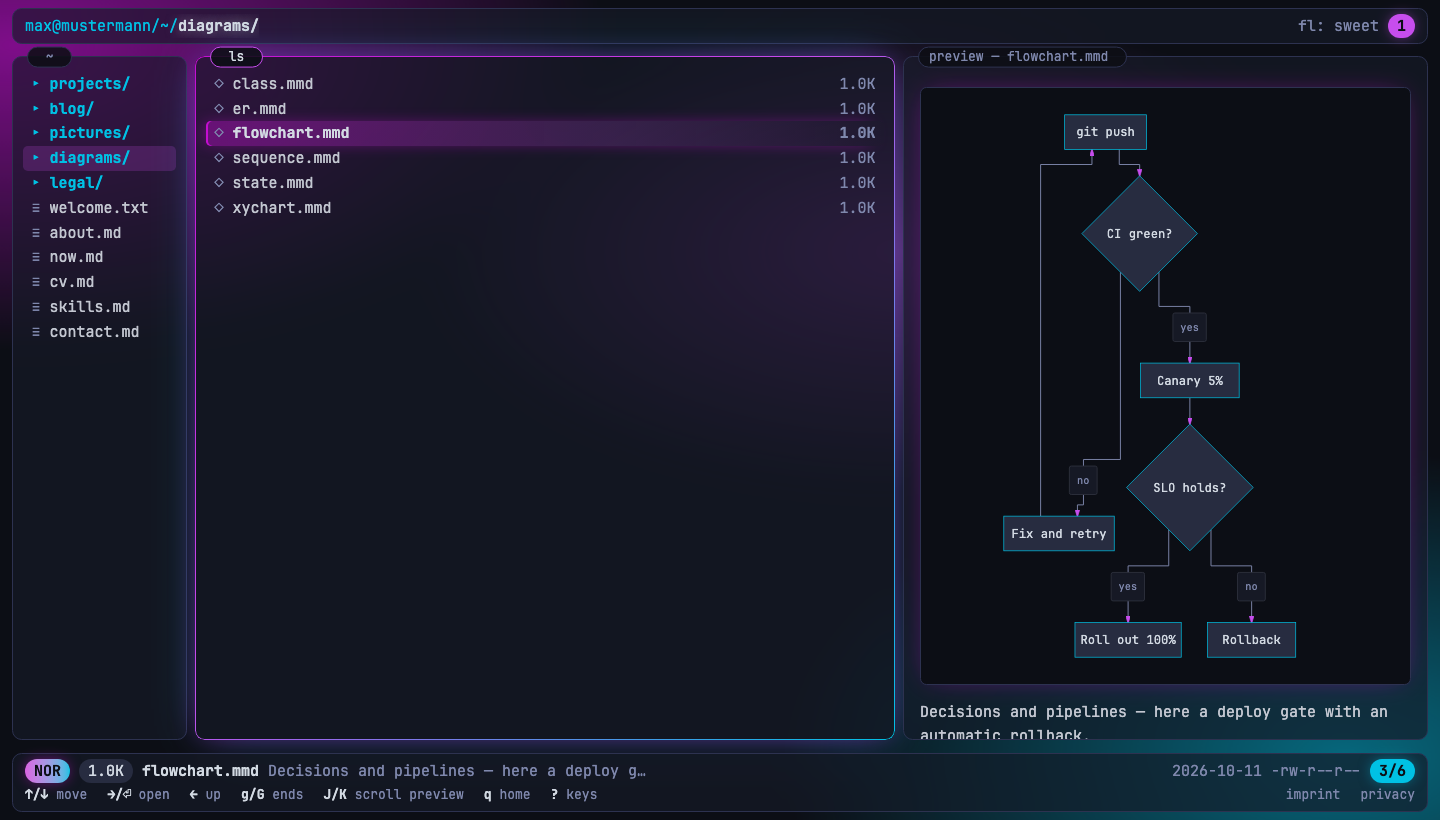
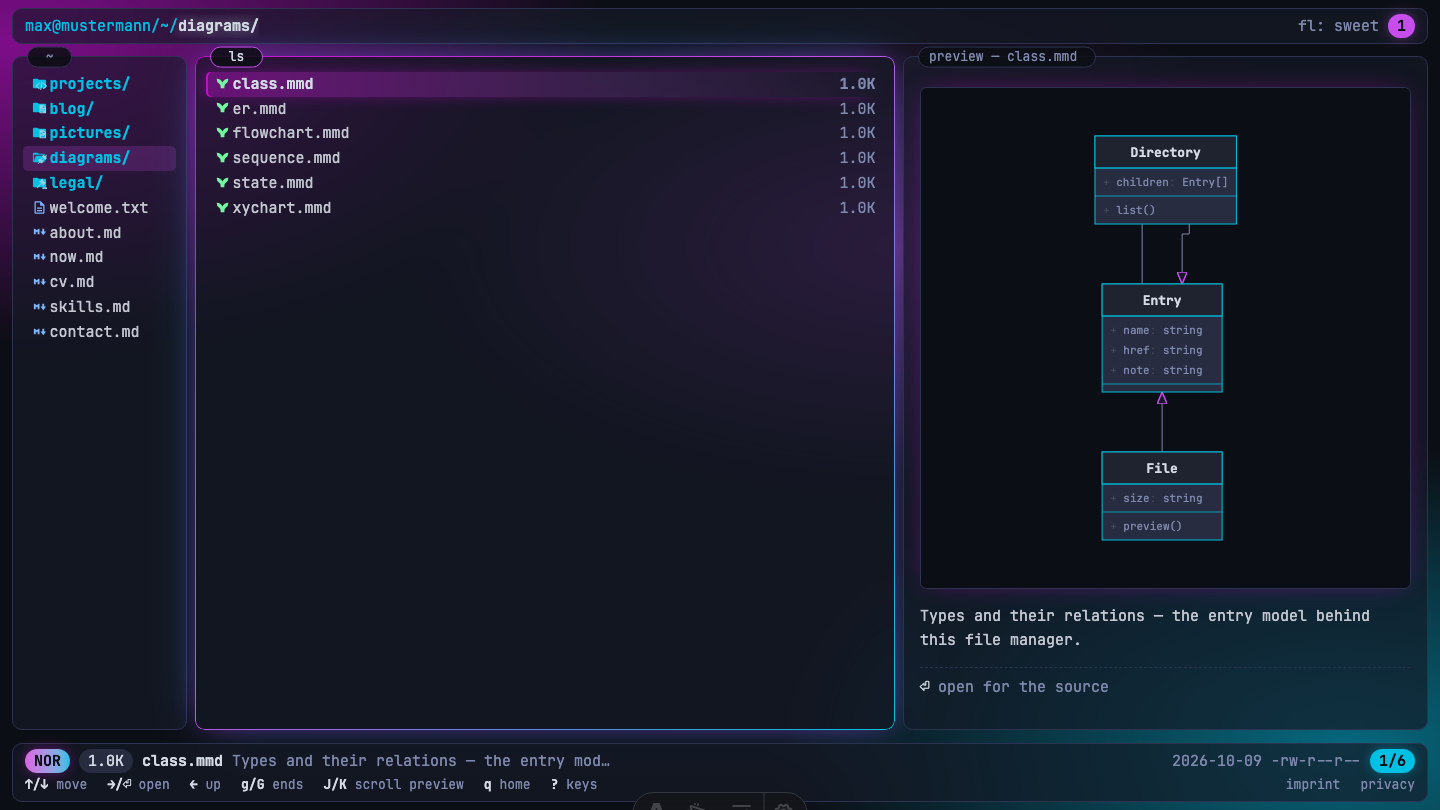
docs: update readme features, screenshots and project notes

diff --git a/CLAUDE.md b/CLAUDE.md
@@ -1,115 +1,128 @@
 # CLAUDE.md
 
-This file provides guidance to Claude Code (claude.ai/code) when working with code in this repository.
+This file provides guidance to Claude Code (claude.ai/code) when working in this repository.
 
-## Projekt
+## Project
 
-Portfolio-Website, die aussieht und sich bedient wie der Terminal-Dateimanager
-[Yazi](https://github.com/sxyazi/yazi). Statische Astro-5-Seite, Code-Kommentare und Doku auf
-Deutsch, Seiteninhalte auf Englisch. **Aktueller Inhalt sind Musterdaten (Max Mustermann)** —
-beim echten Go-live gegen echte Inhalte austauschen: `src/lib/tree.ts` (Root-Baum) und
-`src/content/` (Projekte/Blog).
+Portfolio website that looks and behaves like the terminal file manager
+[Yazi](https://github.com/sxyazi/yazi). A static Astro 5 site; code comments and docs are in
+English, page content is in English as well. **Current content is sample data (Max Mustermann)** —
+before the real go-live, replace it with real content in `src/lib/tree.ts` (root tree) and
+`src/content/` (projects/blog).
 
-Stand: vollständiger Erstbuild (2026-10-11). TUI-Shell, Keyboard-Navigation, Content Collections
-und alle Seiten sind implementiert; das Zielbild aus `docs/PROJEKTBRIEF.md` ist im Wesentlichen
-umgesetzt. Entscheide der offenen Fragen sind dort unter „Historie" festgehalten.
+State: complete initial build (2026-10-11). TUI shell, keyboard navigation, content collections,
+and all pages are implemented; the target vision in `docs/PROJEKTBRIEF.md` is essentially done.
+Decisions on open questions are recorded there under "Historie".
 
-## Befehle
+## Commands
 
 ```bash
 npm install
-npm run dev      # Dev-Server auf http://localhost:4321
-npm run build    # statischer Output nach dist/ (35 Seiten)
-npm run preview  # gebautes dist/ lokal ausliefern
-npm run check    # astro check: Typprüfung für .astro/.ts
-npm test         # node --test: reine lib-Module (src/**/*.test.ts)
-npm run lint     # Biome: Lint + Format-Prüfung (nur lesen)
-npm run format   # Biome: Format und sichere Fixes schreiben
+npm run dev      # dev server on http://localhost:4321
+npm run build    # static output into dist/ (35 pages)
+npm run preview  # serve the built dist/ locally
+npm run check    # astro check: type checking for .astro/.ts
+npm test         # node --test: pure lib modules (src/**/*.test.ts)
+npm run lint     # Biome: lint + format check (read-only)
+npm run format   # Biome: format and write safe fixes
 ```
 
-Biome ersetzt ESLint und Prettier – keins von beiden hinzufügen. `.astro`-Dateien laufen über
-Biomes experimentellen HTML-Support (`html.experimentalFullSupportEnabled` in `biome.json`);
-Typfehler findet nur `astro check`. TypeScript läuft mit `astro/tsconfigs/strict`.
+Biome replaces ESLint and Prettier — do not add either. `.astro` files go through Biome's
+experimental HTML support (`html.experimentalFullSupportEnabled` in `biome.json`); type errors
+are only found by `astro check`. TypeScript runs with `astro/tsconfigs/strict`.
 
-## Architektur
+## Architecture
 
-**Dateimanager-Metapher:** Jede Route ist ein Eintrag im Dateibaum. Das Layout hat drei Zonen:
-Header (Breadcrumb), drei Panes wie in Yazi (Parent · aktuelle Liste · Preview des markierten
-Eintrags), Footer (Statuszeile des markierten Eintrags + Keyhints). Verhältnis 1:4:3, auf
-File-Seiten 1:2:5. Zwei Seitenarten:
+**File manager metaphor:** every route is an entry in the file tree. The layout has three zones:
+header (breadcrumb), three panes like Yazi (parent · current list · preview of the highlighted
+entry), footer (status line of the highlighted entry + key hints). Ratio 1:4:3, on file pages
+1:2:5. Two page types:
 
-- `tree`-Seiten (Root, `/projects/`, `/blog/`, `/pictures/`, `/diagrams/`, `/legal/`): Auswahl im Hash nach `#sel=<name>`, preview folgt
-  der Auswahl serverseitig (erste Vorauswahl) und clientseitig (per `<template>`-Austausch).
-- `file`-Seiten (`/cv/`, `/projects/loadsmith/`, …): die geöffnete Datei ist selektiert; links
-  erscheinen die Geschwister, rechts das vollständige Dokument. Preview-Swap zeigt dann Summaries.
+- `tree` pages (root, `/projects/`, `/blog/`, `/pictures/`, `/diagrams/`, `/legal/`): selection
+  lives in the hash as `#sel=<name>`; the preview follows the selection server-side (initial
+  preselection) and client-side (via `<template>` swap).
+- `file` pages (`/cv/`, `/projects/loadsmith/`, …): the opened file is selected; siblings appear
+  on the left, the full document on the right. Preview swap then shows summaries.
 
-**Datenfluss (Single Source of Truth):**
+**Data flow (single source of truth):**
 
-- `src/lib/tree.ts` — der Root-Baum `~/` (Ordner + Stammdaten), `findEntry()`.
-- `src/lib/panes.ts` — Parent-Spalte (`homeParent()`, `rootParent()`) und `statusOf()` für die
-  Statuszeile; rein, per `npm test` geprüft.
-- `src/lib/rootview.ts` — `rootVMs(href, opened?)`: Root-EntryVMs inkl. Preview-HTML; genutzt von
-  `index.astro` und den vier Leaf-Seiten (about/cv/skills/contact).
-- `src/lib/listing.ts` — `projectVMs()/postVMs()`: Collection → EntryVMs (Sortierung featured
-  zuerst/neueste zuerst, Summaries als Preview, `opened=true` für File-Seiten → kein Template
-  für die eigene Datei, keynav stellt das Dokument wieder her).
-- `src/site.config.ts` — Angaben zur Person (Name, Rolle, Ort, Stack …) und `HANDLE`
-  (`user@host`); `TUIShell` setzt Handle-Crumb und Titel-Suffix selbst, `Prompt.astro` den
-  Shell-Prompt – Seiten übergeben nur den Pfad ab `~` und den Seitentitel. Lizenz: MIT. **Ziel ist die
-  Veröffentlichung als Theme auf Astro Themes**: Personenbezogenes gehört hierher, nicht fest in
-  Seiten oder Komponenten.
-- `src/lib/fetch.ts` — Steckbrief der Startseite im fastfetch-Stil (ASCII-Astro-Logo + Zeilen);
-  `welcome.txt` ist auf `/` vorausgewählt.
-- `src/lib/diagrams.ts` + `src/lib/diagram-files.ts` — `~/diagrams/`: echte `.mmd`-Dateien mit
-  `%% key: value`-Kopf, über einen Inline-Loader als Collection `diagrams`.
-- `src/lib/pictures.ts` — `pictureVMs()` für `~/pictures/`; `src/lib/images.ts` optimiert Bilder
-  über `astro:assets` und liefert das `<figure>`-HTML für Previews und Cover.
-- Content Collections (`src/content.config.ts`): `projects`, `blog` (beide mit optionalem
-  `cover`), `pictures` (ein Markdown je Bild, `image` zeigt nach `src/assets/pictures/`) und
-  `legal` (imprint, privacy). Schema mit zod aus `astro/zod`.
+- `src/lib/tree.ts` — the root tree `~/` (folders + core metadata), `findEntry()`.
+- `src/lib/panes.ts` — parent column (`homeParent()`, `rootParent()`) and `statusOf()` for the
+  status line; pure, covered by `npm test`.
+- `src/lib/rootview.ts` — `rootVMs(href, opened?)`: root EntryVMs incl. preview HTML; used by
+  `index.astro` and the four leaf pages (about/cv/skills/contact).
+- `src/lib/listing.ts` — `projectVMs()/postVMs()`: collection → EntryVMs (featured first / newest
+  first, summaries as preview, `opened=true` for file pages → no template for the own file, keynav
+  restores the document). `postVMs()` also appends the synthetic `feed.xml` entry — the RSS feed
+  (`src/pages/blog/feed.xml.ts`) is itself a file in `~/blog/`.
+- `src/site.config.ts` — personal details (name, role, location, stack …), `HANDLE`
+  (`user@host`), and `url` (canonical base URL — feeds `site` in `astro.config.mjs`, sitemap,
+  canonical/OG tags and the RSS feed); `TUIShell` sets the handle crumb and the title suffix
+  itself, `Prompt.astro` the shell prompt — pages only pass the path from `~` and the page title.
+  License: MIT. **The goal is publication as a theme on Astro Themes**: personal data belongs
+  here, not hard-coded into pages or components.
+- `src/lib/fetch.ts` — the home page spec sheet in fastfetch style (ASCII Astro logo + lines);
+  `welcome.txt` is preselected on `/`.
+- `src/lib/diagrams.ts` + `src/lib/diagram-files.ts` — `~/diagrams/`: real `.mmd` files with a
+  `%% key: value` header, loaded as the `diagrams` collection via an inline loader.
+- `src/lib/pictures.ts` — `pictureVMs()` for `~/pictures/`; `src/lib/images.ts` optimizes images
+  via `astro:assets` and provides the `<figure>` HTML for previews and covers.
+- Content collections (`src/content.config.ts`): `projects`, `blog` (both with optional `cover`),
+  `pictures` (one markdown per image, `image` points into `src/assets/pictures/`) and `legal`
+  (imprint, privacy). Schema with zod from `astro/zod`.
 
-**Progressive Enhancement:** Ohne JS ist jede Seite eine normale Link-Seite (SEO-Fallback).
-`src/scripts/keynav.ts` ist nur Aufsatz: `↑/↓` bzw. `j/k` bewegen die Auswahl (Preview folgt via
-`<template>`-Klon, Hash via `history.replaceState`), `→/Enter/l` öffnen, `←/h` hoch, `q` nach `~`,
-`Home/End` bzw. `g/G` an den Anfang/das Ende, `J/K` scrollt die Preview, `?` öffnet ein natives `<dialog>`-Overlay. Kein UI-Framework.
+**Progressive enhancement:** without JS every page is a plain link page (SEO fallback).
+`src/scripts/keynav.ts` is purely an add-on: `↑/↓` or `j/k` move the selection (preview follows
+via `<template>` cloning, hash via `history.replaceState`), `→/Enter/l` open, `←/h` go up, `q`
+goes to `~`, `Home/End` or `g/G` jump to start/end, `J/K` scroll the preview, `?` opens a native
+`<dialog>` overlay. No UI framework.
 
-## Leitplanken
+## Guidelines
 
-- **Farben nur über die Flavor-Variablen** (`--bg`, `--fg`, `--dir`, `--sel`, `--accent`, …) in
-  `src/styles/global.css`, in Tailwind als `bg-bg`, `text-dir`, `border-border` usw. verfügbar.
-  Nicht Tailwinds Standardpalette (`text-blue-500`) verwenden. Die Palette ist ein Yazi-„Flavor"
-  („sweet", Garuda Dr460nized) und bleibt als Ganzes austauschbar – keine Hex-Werte in Komponenten.
-- **Monospace-Raster:** Listenzeilen sind ein CSS-Grid in `ch` (`.entry`: Icon 2ch · Name ·
-  Größe). Keine proportionalen Schriften, keine Padding-Tricks, die das Raster brechen.
-- **Vollbild:** `.tui` ist `100dvh` hoch, nur die `.pane-body`-Elemente scrollen. Unter 64rem
-  entfällt die Parent-Spalte, unter 48rem Single-Pane mit normalem Seiten-Scrollen.
-- **Icons:** reine Unicode-Glyphen (`src/lib/icons.ts`), kein Icon-Paket. Keine Nerd-Font-/
-  Private-Use-Codepoints – das selbst gehostete JetBrains Mono enthält sie nicht.
-- **Zugänglichkeit:** `aria-label`/`aria-current` an den Panes und Einträgen, sichtbare
-  Fokus-States (`.entry:focus-visible`), `prefers-reduced-motion`, native `<dialog>`.
-- **Effekte getrennt:** Verlauf, Glas, Glow liegen nur in `src/styles/fx.css` und nutzen
-  ausschließlich Flavor-Variablen. Layout nie von `fx.css` abhängig machen.
-- **Bilder:** immer über `astro:assets` (`image()` im Schema, `<Image>`/`figureFor()`), nie aus
-  `public/`. Die jetzigen SVGs sind Platzhalter.
-- **Rechtliches:** `legal/*` sind Vorlagen mit `TODO`-Markern und `noindex`; die Fußzeilen-Links
-  in `TUIShell.astro` müssen auf jeder Seite bleiben.
-- **Diagramme:** ```` ```mermaid ````-Blöcke werden beim Build zu Inline-SVG (`src/lib/mermaid.ts`,
-  Sätteri-Plugin in `astro.config.mjs`) – kein mermaid.js im Browser. Nur Flowchart, Sequenz-,
-  Klassen-, ER-, Zustands- und XY-Diagramme; alles andere lässt den Build scheitern.
-  Nach Änderungen am Plugin `npx astro build --force` (der Content-Cache merkt sie nicht).
-- **Kein `.md` in `src/pages/`** (auch kein `CLAUDE.md`) – Astro baut daraus eine Route.
-- **Neue Seite = Baum + Liste + Preview:** Seite in `pages/`, ggf. Eintrag in `tree.ts`/Collection,
-  stets mit Preview-Template — sonst bleibt der rechte Pane leer.
+- **Colors only via the flavor variables** (`--bg`, `--fg`, `--dir`, `--sel`, `--accent`, …) in
+  `src/styles/global.css`, available in Tailwind as `bg-bg`, `text-dir`, `border-border` etc. Do
+  not use Tailwind's default palette (`text-blue-500`). The palette is a Yazi "flavor" ("sweet",
+  Garuda Dr460nized) and stays swappable as a whole — no hex values in components.
+- **Monospace grid:** list rows are a CSS grid in `ch` (`.entry`: icon 2ch · name · size). No
+  proportional fonts, no padding tricks that break the grid.
+- **Full screen:** `.tui` is `100dvh` tall; only the `.pane-body` elements scroll. Below 64rem the
+  parent column is dropped, below 48rem single pane with normal page scrolling.
+- **Icons:** inline SVGs from the `material-icon-theme` Iconify dataset, built at build time in
+  `src/lib/icons.ts` and recolored to flavor variables (`currentColor` per file type, two-tone
+  folder badges via `--icon-badge`) — the file-type coloring mirrors Yazi flavor `[filetype]`
+  rules. Directories render a closed **and** an open variant; CSS swaps them on the selected row
+  (`li.sel`). No icon runtime, no client JS, no Nerd Font / private-use codepoints. Specialized
+  folders per directory name live in `FOLDER_ICONS`; changing an icon shape fails the build.
+- **Accessibility:** `aria-label`/`aria-current` on panes and entries, visible focus states
+  (`.entry:focus-visible`), `prefers-reduced-motion`, native `<dialog>`.
+- **Effects separated:** gradient, glass, and glow live only in `src/styles/fx.css` and use
+  flavor variables exclusively. Never make layout depend on `fx.css`.
+- **Images:** always via `astro:assets` (`image()` in the schema, `<Image>`/`figureFor()`), never
+  from `public/`. The current SVGs are placeholders.
+- **Legal:** `legal/*` are templates with `TODO` markers and `noindex`; the footer links in
+  `TUIShell.astro` must stay on every page.
+- **Diagrams:** ```` ```mermaid ```` blocks are turned into inline SVG at build time
+  (`src/lib/mermaid.ts`, Sätteri plugin in `astro.config.mjs`) — no mermaid.js in the browser.
+  Only flowchart, sequence, class, ER, state, and XY charts; anything else fails the build.
+  After plugin changes run `npx astro build --force` (the content cache does not notice them).
+- **No `.md` in `src/pages/`** (no `CLAUDE.md` either) — Astro would build a route from it.
+- **New page = tree + list + preview:** page in `pages/`, entry in `tree.ts`/collection if
+  needed, always with a preview template — otherwise the right pane stays empty.
 
-## Historie (Kurzfassung)
+## History (summary)
 
-- 2026-10-10: Astro-Skeleton + erster optischer Draft.
-- 2026-10-11: Vollausbau — TUI-Shell, Collections, Keynav, Deep-Links, Mobile-Single-Pane,
-  Musterdaten (Max Mustermann, englische Inhalte), 404 `zsh: no such file or directory`.
-- 2026-10-11: Redesign — drei Spalten im Vollbild (Parent/Current/Preview), Flavor „sweet"
-  (Garuda Dr460nized), Statuszeile mit Segmenten, Ordner-Preview als Dateiliste, `J/K`.
-- 2026-10-11: Voll Dr460nized (`fx.css`), Bilder (`~/pictures/` + Cover), `now.md`,
-  `~/legal/` (imprint, privacy) mit Fußzeilen-Links.
-- 2026-10-11: Mermaid-Diagramme als Build-Zeit-SVG in Flavor-Farben.
-- 2026-10-11: Pfeiltasten (←/→, Home/End), Startseite `welcome.txt` mit ASCII-Astro-Logo im
-  Fetch-Stil, Beispielordner `~/diagrams/`, `src/site.config.ts`.
+- 2026-10-10: Astro skeleton + first visual draft.
+- 2026-10-11: Full build-out — TUI shell, collections, keynav, deep links, mobile single-pane,
+  sample data (Max Mustermann, English content), 404 `zsh: no such file or directory`.
+- 2026-10-11: Redesign — three columns in fullscreen (parent/current/preview), flavor "sweet"
+  (Garuda Dr460nized), status line with segments, folder preview as file list, `J/K`.
+- 2026-10-11: Fully Dr460nized (`fx.css`), images (`~/pictures/` + covers), `now.md`,
+  `~/legal/` (imprint, privacy) with footer links.
+- 2026-10-11: Mermaid diagrams as build-time SVG in flavor colors.
+- 2026-10-11: SVG file-type/folder icons (material-icon-theme data, flavor-recolored, open state
+  on selection).
+- 2026-10-11: SEO & feeds — `site` from `site.config.ts` (`url`), canonical + OG/Twitter tags,
+  `@astrojs/sitemap` (without `/legal/`), RSS at `/blog/feed.xml`, `public/og.png` (1200×630),
+  `OFL.txt` next to the fonts, README screenshots regenerated via headless Chrome.
+- 2026-10-11: Arrow keys (←/→, Home/End), home page `welcome.txt` with ASCII Astro logo in
+  fetch style, sample folder `~/diagrams/`, `src/site.config.ts`.

diff --git a/README.md b/README.md
@@ -20,6 +20,12 @@ and every page is still a plain, crawlable HTML document.
   is a small progressive enhancement, no UI framework.
 - **Content collections** — projects, blog posts, pictures, legal pages and diagram examples are
   Markdown (or `.mmd`) files with validated frontmatter.
+- **File-type icons** — inline SVG glyphs (Material Icon Theme data) recoloured from the flavor
+  variables, like Yazi's `[filetype]` rules; the selected folder shows its open state.
+- **Blog RSS feed** — every post ships in `~/blog/feed.xml`; the feed file appears in the
+  directory listing itself.
+- **SEO ready** — canonical URLs, Open Graph and Twitter cards on every page, plus a sitemap
+  (legal pages excluded, they render `noindex`).
 - **Images** — a `pictures/` folder with previews, plus optional cover images, optimised through
   `astro:assets`.
 - **Mermaid diagrams at build time** — fenced `mermaid` blocks become inline SVG in the theme
@@ -29,11 +35,13 @@ and every page is still a plain, crawlable HTML document.
   optional stylesheet.
 - **Accessible** — labelled panes, visible focus, `prefers-reduced-motion` and
   `prefers-reduced-transparency` respected, native `<dialog>` for the shortcut overlay.
-- **No cookies, no tracking, self-hosted font** — plus imprint and privacy templates.
+- **No cookies, self-hosted font** — zero external requests by default, optional
+  privacy-friendly SimpleAnalytics toggle, plus imprint and privacy templates.
 
 ## Quick start
 
-Requires Node.js 22.18 or newer (the tests rely on Node's built-in TypeScript support).
+Requires Node.js 26 or newer (`engines` + `engine-strict` enforce this on `npm install`; the
+tests rely on Node's built-in TypeScript support).
 
 ```bash
 git clone https://github.com/nkoeberlein/portfolio-yazi.git my-portfolio
@@ -56,8 +64,10 @@ npm run dev        # http://localhost:4321
 The theme ships with sample content for a fictional engineer, Max Mustermann. Replace it in this
 order:
 
-1. **`src/site.config.ts`** — name, role, location, stack and the `user@host` handle. Feeds the
-   profile on the home screen, the breadcrumb, page titles and the shell prompt.
+1. **`src/site.config.ts`** — `url`, name, role, location, contact channels, stack, optional
+   analytics (`simpleAnalytics: false` by default), and the `user@host` handle. Feeds sitemap,
+   canonical/OG URLs and the RSS feed, the profile on the home screen, the breadcrumb, page
+   titles and the shell prompt.
 2. **`src/lib/tree.ts`** — the entries of the home directory `~/`: which folders and files exist,
    in which order.
 3. **`src/content/`** — your actual content:
@@ -128,14 +138,16 @@ src/
 ## Deploying
 
 `npm run build` produces a plain static site in `dist/` — it runs on any static host. Set
-`site` in `astro.config.mjs` to your domain before you add a sitemap or canonical URLs.
+`url` in `src/site.config.ts` to your domain: it drives the sitemap, canonical URLs, Open Graph
+tags and the RSS feed. Add your own `public/og.png` (1200 × 630) for social link previews.
 
 ## Credits
 
 - Interaction model and layout: [Yazi](https://github.com/sxyazi/yazi) by sxyazi.
 - Colour palette: inspired by the [Sweet](https://github.com/EliverLara/Sweet) theme as used in
   Garuda Linux Dr460nized. This project is not affiliated with Yazi, Sweet, Garuda Linux or Astro.
-- Font: [JetBrains Mono](https://www.jetbrains.com/lp/mono/), SIL Open Font License 1.1.
+- Font: [JetBrains Mono](https://www.jetbrains.com/lp/mono/), SIL Open Font License 1.1
+  (`public/fonts/OFL.txt`).
 - Diagrams: [beautiful-mermaid](https://github.com/lukilabs/beautiful-mermaid).
 
 ## License

diff --git a/docs/PROJEKTBRIEF.md b/docs/PROJEKTBRIEF.md
@@ -70,4 +70,8 @@
   mit sechs `.mmd`-Dateien. Offen für die Einreichung: englische README für Theme-Nutzer,
   Lizenz, Screenshots, restliche fest verdrahtete `max@mustermann`-Angaben nach `site.config.ts`.
 - 2026-10-11: Lizenz **MIT** (`LICENSE`), englische README mit Screenshots, Handle zentral in
-  `site.config.ts` (`HANDLE`). Noch offen: `OFL.txt` zu den Schriftdateien legen.
+  `site.config.ts` (`HANDLE`). `OFL.txt` liegt bei den Schriftdateien (`public/fonts/`).
+- 2026-10-11: Dateityp-/Ordner-Icons als Inline-SVG (material-icon-theme, flavor-eingefärbt,
+  selektierte Ordner zeigen den offenen Zustand), RSS-Feed `/blog/feed.xml` als Eintrag in
+  `~/blog/`, SEO (`url` in `site.config.ts`, canonical/OG/Twitter, Sitemap ohne `/legal/`,
+  `og.png`), README-Screenshots aktualisiert.
